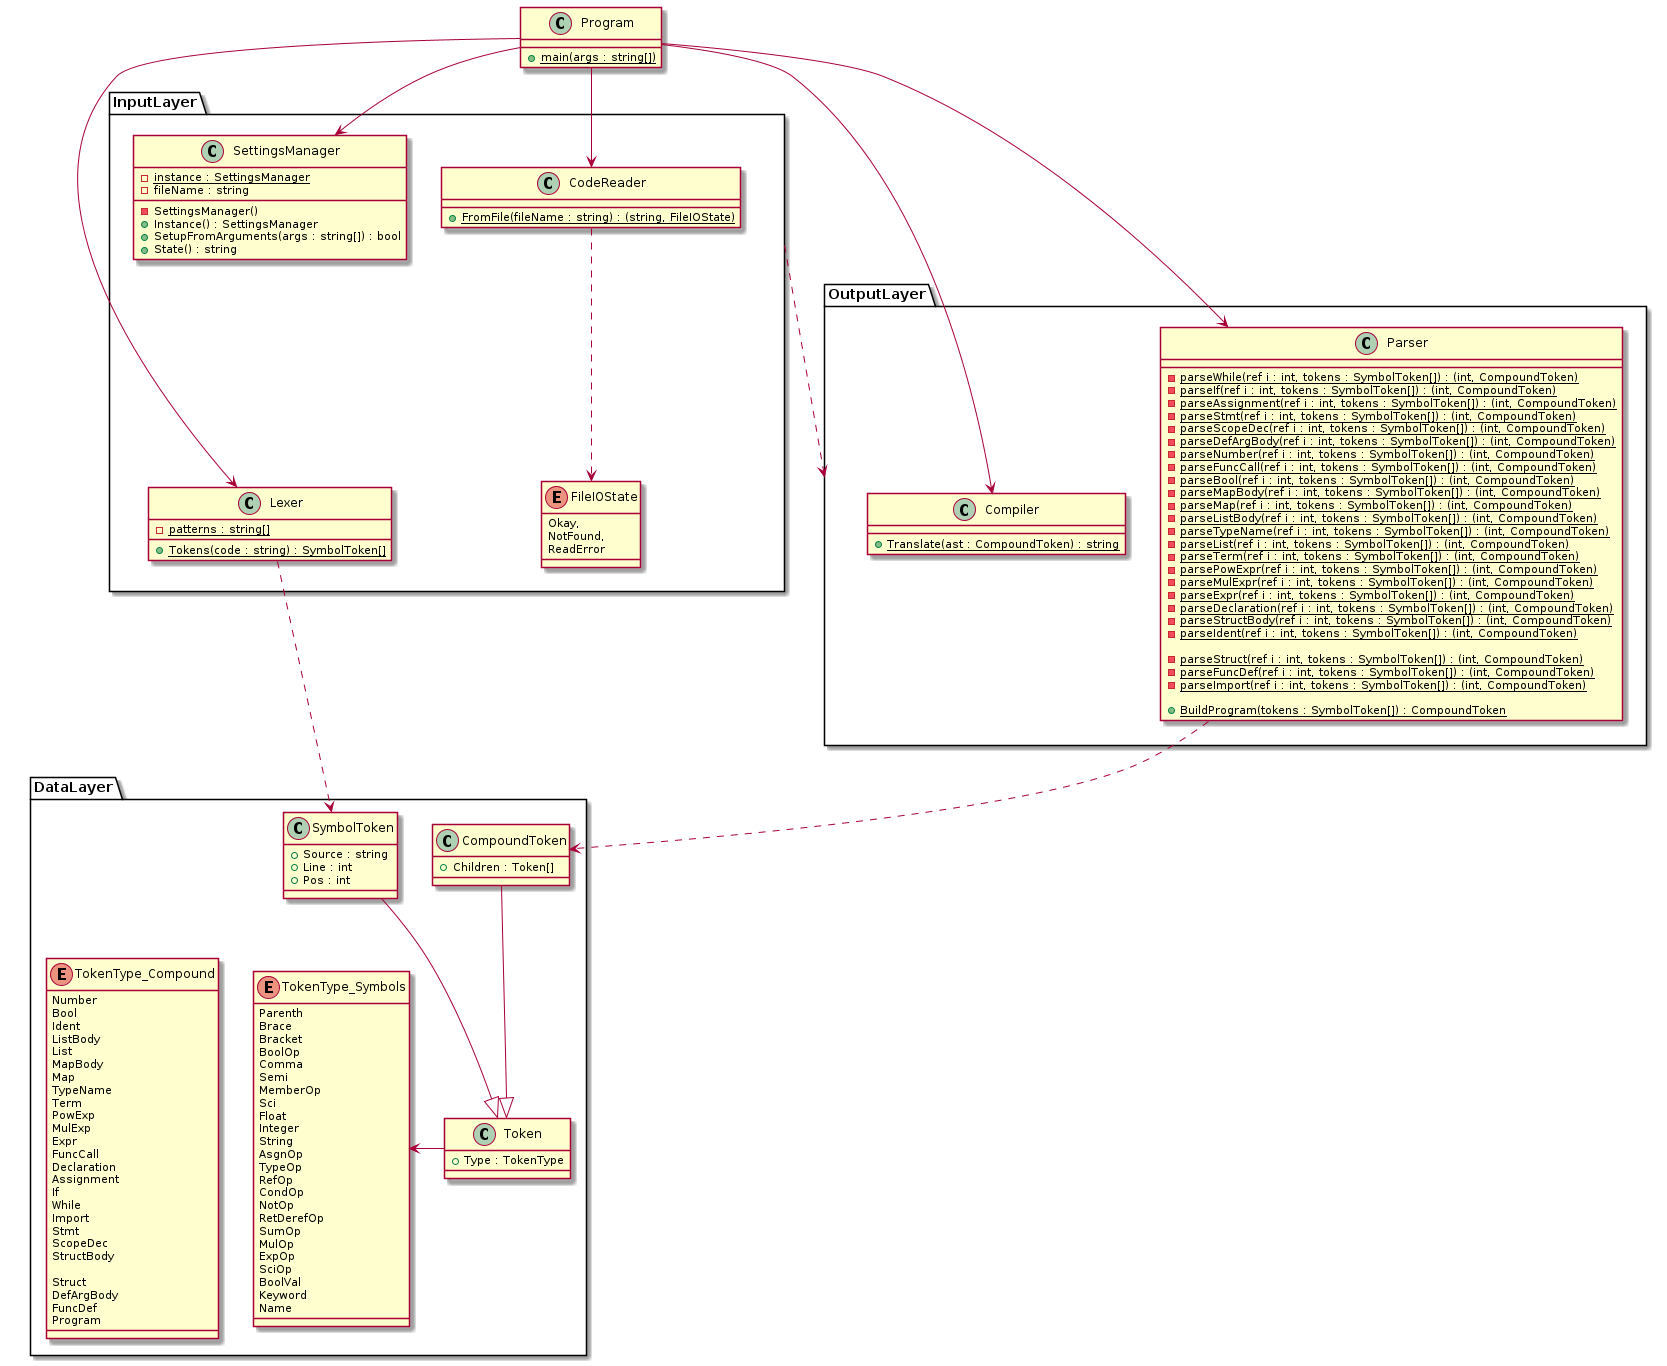
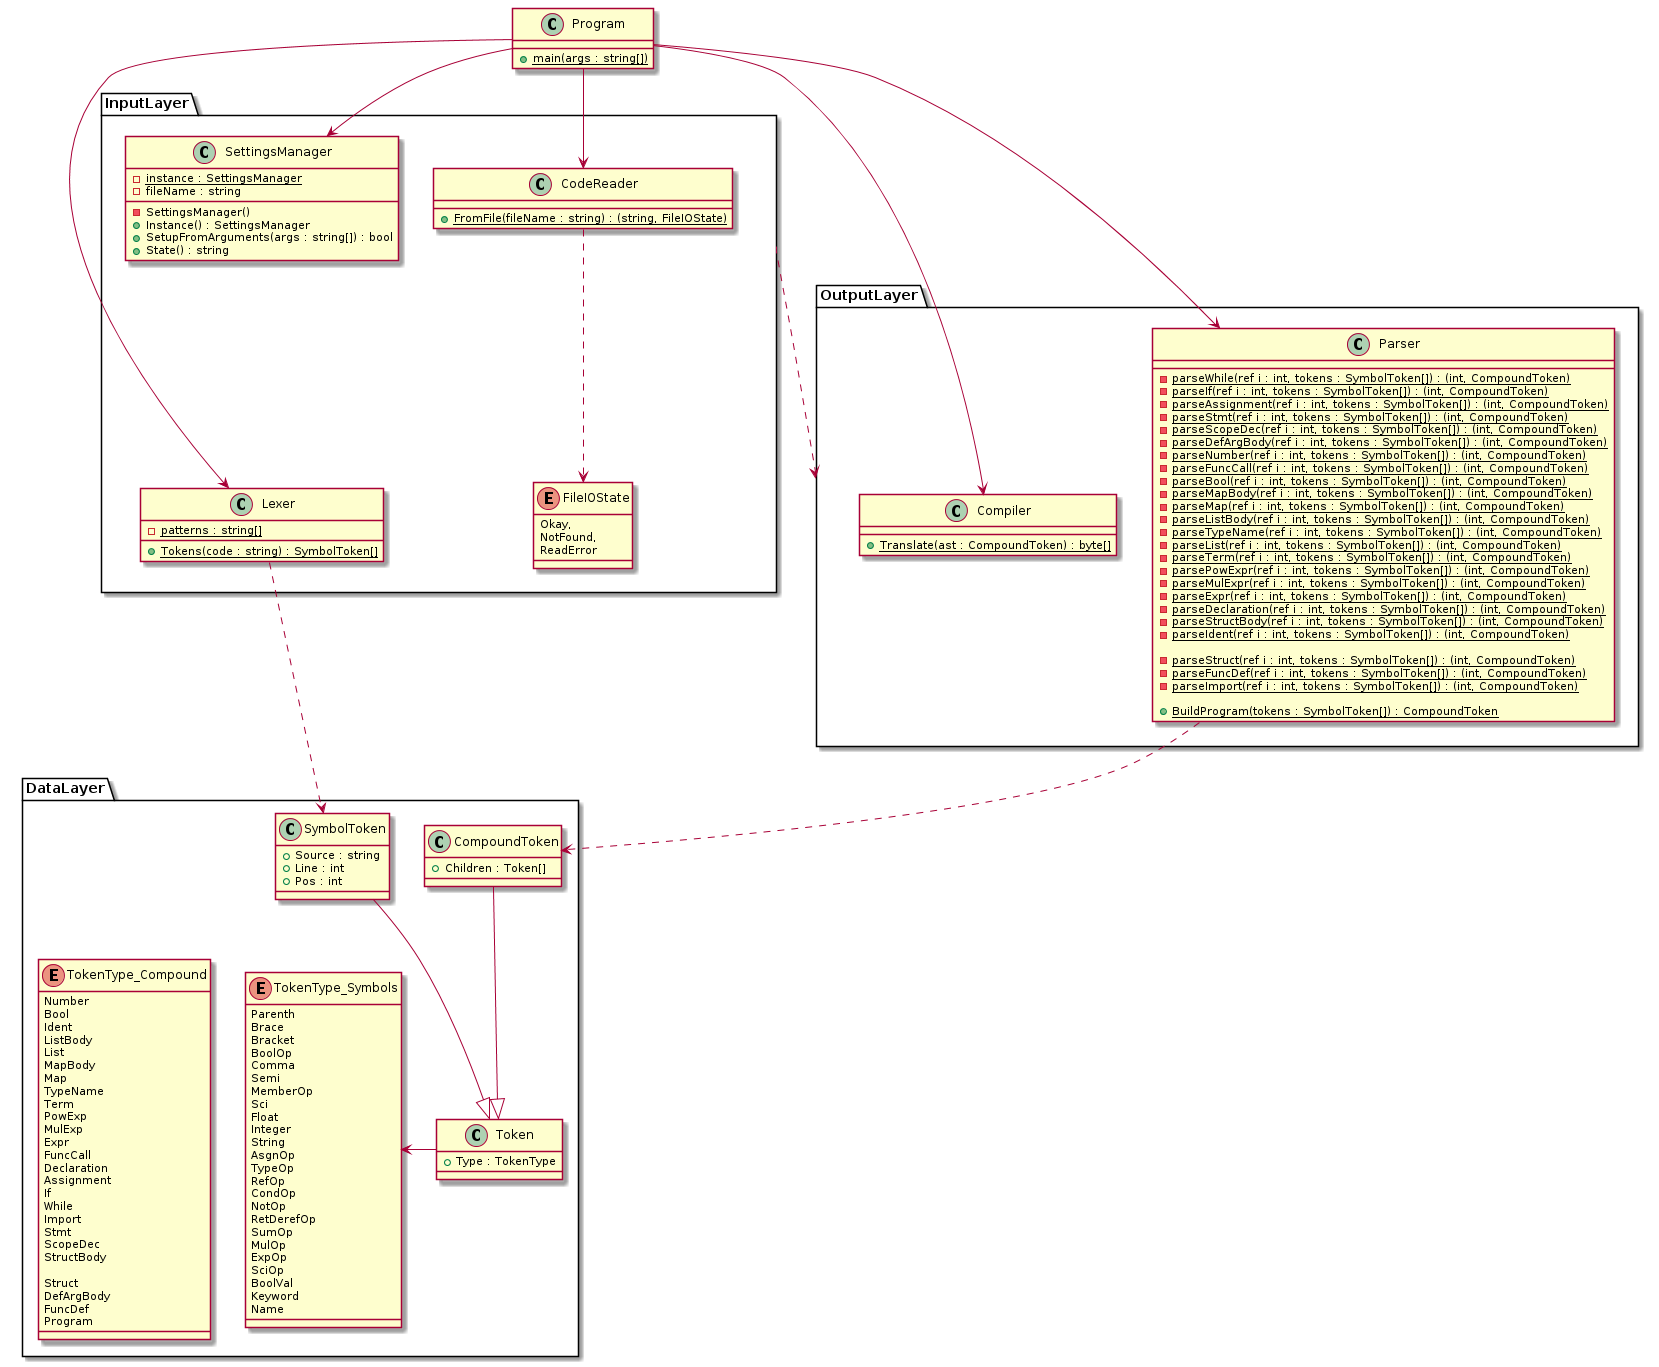
Converted compiler to create bytecode array for virtual machine

diff --git a/src/Output.cs b/src/Output.cs
@@ -176,8 +176,8 @@ namespace dylanscript {
     }
 
     class Compiler {
-        public static string Translate(CompoundToken ast) {
-            return "";
+        public static byte[] Translate(CompoundToken ast) {
+            return new byte[0] {};
         }
     }
 }
